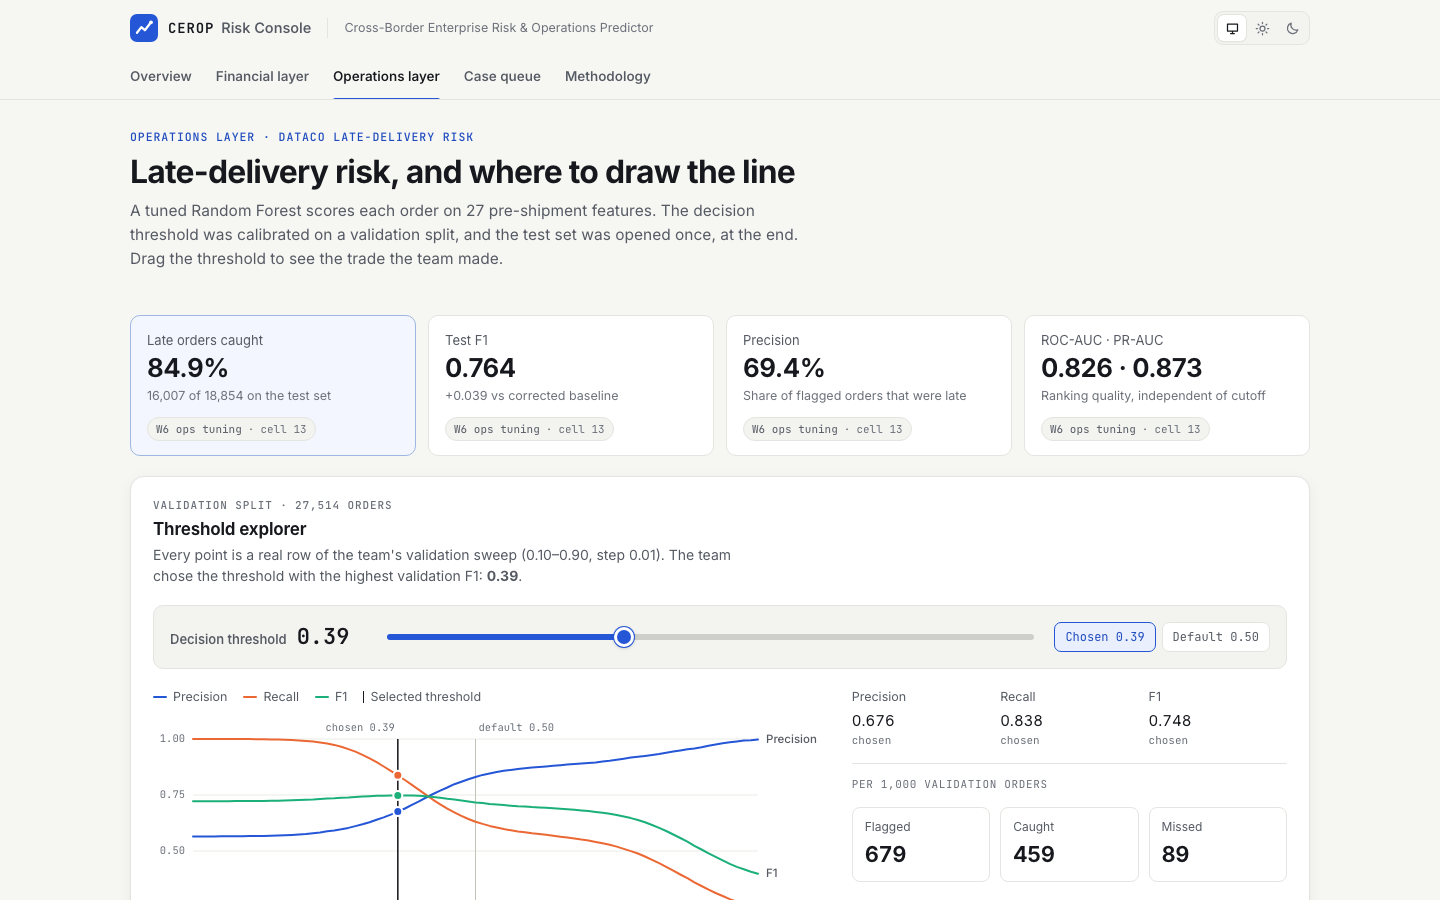
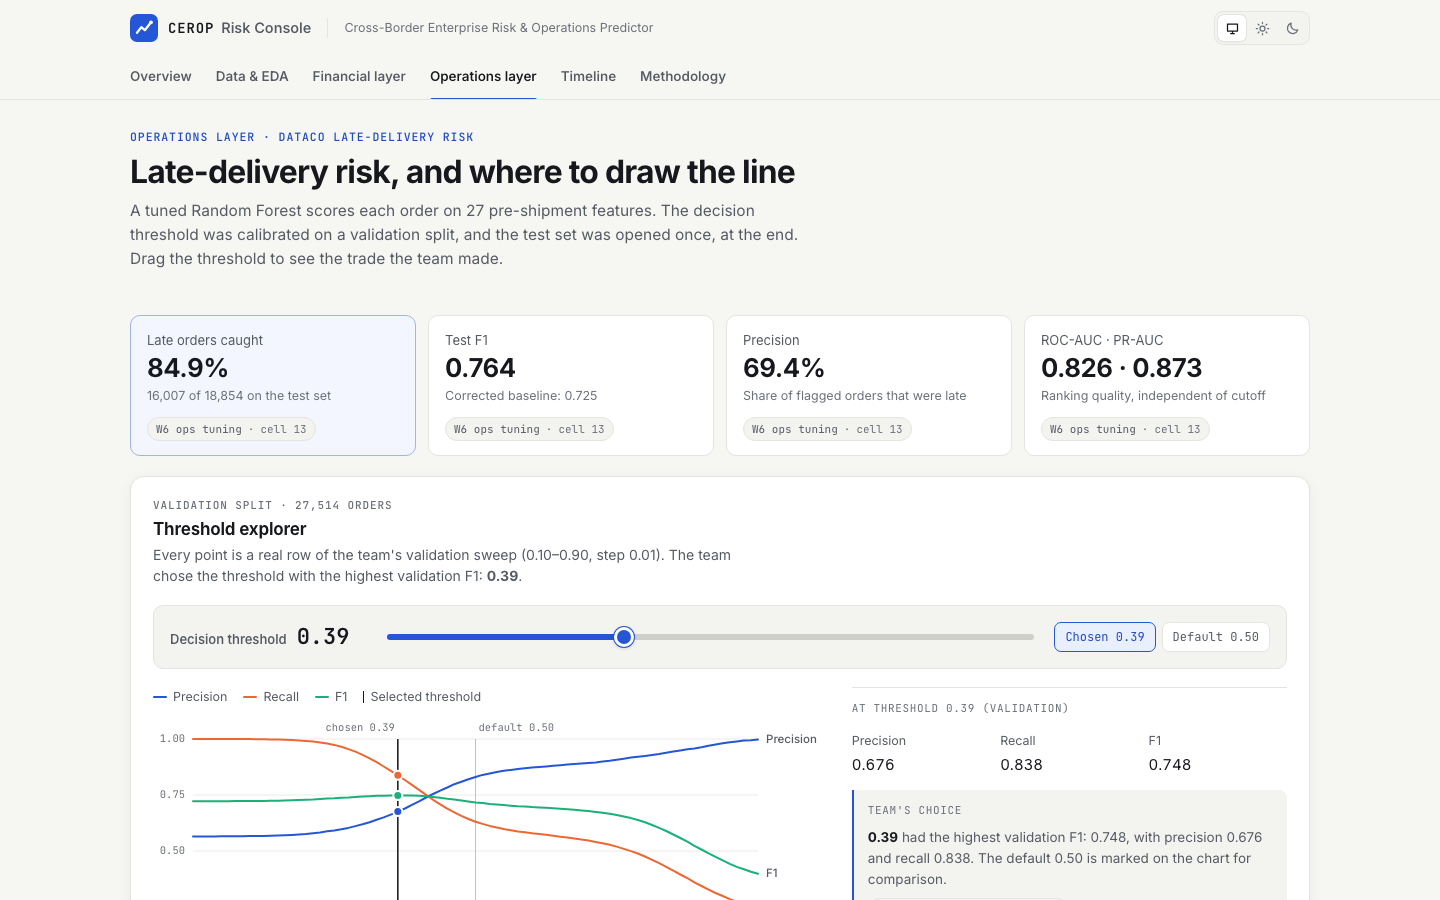
docs: README with documented results, provenance and refreshed screenshots

diff --git a/README.md b/README.md
@@ -1,66 +1,97 @@
 # CEROP Risk Console
 
-A console for CEROP (Cross-Border Enterprise Risk & Operations Predictor), a two-layer machine-learning model that asks two separate questions about a supplier: *is this company heading for bankruptcy?* and *will this order arrive late?*
+A console for CEROP (Cross-Border Enterprise Risk & Operations Predictor), a two-layer machine-learning project that asks two separate questions about a supplier: *is this company heading for bankruptcy?* and *will this order arrive late?*
 
-Every number in the console comes from the team's executed notebooks, a result file one of them saved, or the final slides. Each figure carries a small source chip that links to its row in a lineage table (file, cell or slide, and what was read there). Anything the record doesn't contain is left out and listed as missing.
+Every number in the console is a documented result from one of three places: the team's executed notebooks, one results file those notebooks saved, or the team's written report, "[AIT506] Group 4 - CEROP" (Weeks 2–6). Each figure carries a source chip that links to its row in a lineage table giving the file, cell or page, and what was read there.
 
 **Live:** https://divyagopalnadar.github.io/cerop-console/
 
-![CEROP Risk Console overview in light theme, showing the financial and operations layers side by side](docs/screenshot.png)
+![CEROP Risk Console overview, with the financial and operations layers side by side](docs/screenshot.png)
 
-## Features
+## Views
 
-- **Overview.** Headline results for both layers, the three reasons the layers stay separate, and the team's playbook for when one or both flag the same supplier.
-- **Financial layer.** XGBoost results on the held-out split, a confusion matrix rebuilt from the reported figures (with the derivation shown), why the team kept the baseline model, and the data prep that takes 95 ratios to 85 features.
-- **Operations layer.** A threshold explorer over the team's 81-step validation sweep: a slider plus a clickable chart show precision, recall and F1, and what the cutoff means per 1,000 orders (flagged, caught, missed). Below it: the sealed-test comparison of baseline, tuned, and tuned with a calibrated cutoff; a confusion-matrix viewer; the target-leakage fix; the tuning setup; and feature importances.
-- **Case queue.** A triage list (needs review / on watch / cleared) with search, layer and status filters, sorting, a dual-risk flag, and an expandable "why" for each case. **The cases are illustrative, not real model output**, and the page says so.
-- **Methodology.** The protocol (split, fit on train, tune, calibrate on validation, open the test set once), a lineage table for all 27 sources, the derived values and how they were computed, and what is not in the record.
-- Light and dark themes with a system default and no flash on load; hash routing so deep links work on GitHub Pages (e.g. `#/operations?t=0.45`, `#/lineage?src=ops-w6-test`); responsive down to 390px.
-- Accessibility: ARIA tabs with arrow/Home/End keys and a roving tabindex, labelled controls, native radio groups for segmented controls, charts backed by tables or text, visible focus, reduced-motion support, and status shown as icon plus label rather than colour alone.
+- **Overview.** The deployed result for each layer, the Week 6 deployment decision, why the two layers are never merged into one score, and the three datasets.
+- **Data & EDA.** Late-delivery rate by shipping mode, the shipping-delay distribution, the top correlates with bankruptcy, the 24 sentinel-valued financial ratios, the GSCPI assumption test (not supported), the DBSCAN anomaly component, and the cleaning and leakage decisions.
+- **Financial layer.** The Week 5 model comparison and the equal-recall result. For Week 6: the partition, search, parameters, the 11-row test table, three documented confusion matrices, why tuning did not transfer, and the bootstrap check.
+- **Operations layer.** A threshold explorer over the team's 81-step validation sweep, the sealed-test comparison of baseline, tuned, and tuned plus calibrated, a confusion-matrix viewer, the Order Status leakage fix, feature importances and the tuning setup.
+- **Timeline.** What each week, 1 through 7, decided.
+- **Methodology.** The shared protocol, a lineage table for all 55 sources, and the team with each member's charter responsibility.
 
-## Modelling summary
+Light and dark themes with a system default and no flash on load. Hash routing, so deep links work on GitHub Pages (for example `#/operations?t=0.45` or `#/lineage?src=report-w6-test`). Responsive down to 390px. ARIA tabs with arrow, Home and End keys, labelled controls, charts backed by lists or tables, visible focus and reduced-motion support.
 
-| | Financial layer | Operations layer |
-|---|---|---|
-| Question | Will this counterparty go bankrupt? | Will this order be delivered late? |
-| Data | Taiwanese Bankruptcy Prediction: 6,819 firms, 95 ratios, 3.23% bankrupt (≈ 1 : 30) | DataCo Smart Supply Chain + NY Fed GSCPI: 171,962 orders after removing a Nov–Dec 2017 artefact, 54.82% late |
-| Split | Stratified 80/20: 5,455 train / 1,364 test, 85 features after cleaning | Stratified 80/20: 137,569 train / 34,393 test; training further split 110,055 dev / 27,514 validation; 27 features |
-| Model | XGBoost, baseline configuration | Random Forest, tuned (RandomizedSearchCV, 25 × 3-fold, best CV F1 0.7051) |
-| Cutoff | Not recorded | 0.39, the validation-F1 maximum |
-| Test result | Recall 0.568 (25 of 44 bankrupt firms caught), F1 0.568, PR-AUC 0.490 | Recall 0.849, precision 0.694, F1 0.764, ROC-AUC 0.826, PR-AUC 0.873 |
+## Results
 
-What the operations numbers show:
+### Financial layer (Taiwanese Bankruptcy, 6,819 firms, 3.23% bankrupt)
 
-- **Tuning alone didn't help F1.** On the test set the corrected baseline scored F1 0.7251 at 0.50 and the tuned model 0.7214. Tuning did lift ROC-AUC from 0.8138 to 0.8258.
-- **Calibration did.** Moving the cutoff to 0.39, chosen on validation data, raised test recall from 0.629 to 0.849 and F1 to 0.764, at the cost of precision (0.846 → 0.694).
-- **Fixing the leak cost points, as it should.** The Week 5 feature set had 35 columns, including eight Order Status fields that encode the delivery outcome. Removing them dropped Random Forest's test F1 from 0.7388 to 0.7251 and its ROC-AUC from 0.855 to 0.814.
+Week 5, test set n = 1,364 with 44 bankrupt:
 
-For the financial layer, the final deck records the challenge ("Data Scarcity & Measurement Noise") and the decision ("Baseline Model Robustness"). With 44 bankrupt firms in the test split, each firm is worth 2.3 points of recall.
+| Model | Accuracy | Precision | Recall | F1 | ROC-AUC |
+|---|---|---|---|---|---|
+| Logistic Regression | 0.878 | 0.186 | 0.818 | 0.303 | 0.902 |
+| Random Forest | 0.966 | 0.478 | 0.500 | 0.489 | 0.943 |
+| XGBoost | 0.970 | 0.535 | 0.523 | 0.529 | 0.950 |
+
+With both models held to 81.8% recall (36 of 44 caught), XGBoost raised 82 false alarms against 140 for Logistic Regression: 41% fewer. XGBoost was shortlisted, with Random Forest as the backup.
+
+Week 6: RandomizedSearchCV, 40 draws × 5 folds, scored on average precision. The tuned model beat the Week 5 configuration in cross-validation (PR-AUC 0.4257 vs 0.3895) but not on the sealed test set:
+
+| Configuration | Threshold | Precision | Recall | F1 | PR-AUC | Caught |
+|---|---|---|---|---|---|---|
+| XGBoost, Week 5 config (refit) · **deployed** | 0.500 | 0.568 | 0.568 | 0.568 | 0.490 | 25/44 |
+| XGBoost, tuned | 0.500 | 0.489 | 0.523 | 0.505 | 0.425 | 23/44 |
+| XGBoost, tuned @ calibrated | 0.335 | 0.382 | 0.591 | 0.464 | 0.425 | 26/44 |
+
+The report explains why tuning did not transfer:
+
+- **Noise.** The ranking signal (0.0498 PR-AUC, best to worst) was smaller than the fold noise (SD 0.0649), a signal-to-noise ratio of 0.77, with about 28 positives per fold.
+- **Grid.** The grid capped `scale_pos_weight` at 20 while the class ratio was 30.0.
+- **Bootstrap.** A paired bootstrap with 2,000 resamples puts ΔPR-AUC at −0.0652, with a 95% CI of [−0.1351, +0.0249], which spans zero.
+
+The decision was to keep the Week 5 configuration and invest in more labelled bankruptcies rather than more search.
+
+### Operations layer (DataCo, 171,962 orders after artefact removal, 54.8% late)
+
+After removing eight leaking Order Status columns (35 → 27 features), a tuned Random Forest was calibrated on the validation split. The threshold 0.39 gave the best validation F1 (0.748). Results on the sealed test set (34,393 orders):
+
+| Model | Threshold | Precision | Recall | F1 | ROC-AUC | PR-AUC |
+|---|---|---|---|---|---|---|
+| Corrected baseline RF | 0.50 | 0.8261 | 0.6461 | 0.7251 | 0.8138 | 0.8620 |
+| Tuned RF | 0.50 | 0.8456 | 0.6290 | 0.7214 | 0.8258 | 0.8730 |
+| Tuned RF · **deployed** | 0.39 | 0.6944 | 0.8490 | 0.7639 | 0.8258 | 0.8730 |
+
+Calibration cut missed late orders from 6,994 to 2,847, so about 4,100 more at-risk shipments are flagged. False alarms rose from 2,166 to 7,045.
+
+The two layers are presented side by side and never merged into a single score.
 
 ## Data provenance
 
-`scripts/extract_data.py` parses executed cell outputs, one saved result CSV and slide XML into `src/data/*.json`. Each record gets a `source` id that resolves in `src/data/sources.json`. The notebooks and decks are not in this repository.
+- `scripts/extract_data.py` parses executed cell output from the notebooks, plus the threshold sweep that `AIT506_Week6_Operations_Model_Tuning.ipynb` saved to `week6_operations_threshold_results.csv`.
+- `scripts/report_facts.py` holds the report's tables, each with the page it came from. On every extraction, 166 values are re-checked against the report's PDF text.
+- Two report items exist only as figures: the delay distribution (Week 3, Figure 7) and the Week 6 confusion matrices (Figure 5). Those values were read from the figure images and cross-checked against the surrounding text ("33.6% at +1 day", "false alarms rising from 24 to 42").
+- The notebooks and the report are not in this repository.
 
-| Source file | Used for |
+| Source | Used for |
 |---|---|
-| `AIT506_Week6_Operations_Model_Tuning.ipynb` (cells 0, 4, 6, 8, 10, 13) | Corrected data shapes, validation split, search, chosen threshold, final test results |
-| `week6_operations_results/week6_operations_threshold_results.csv` (saved by cell 19 of the notebook above) | The full 81-row validation sweep; checked against the printed top five |
-| `AIT506_Week5_Operational_Model_Selection.ipynb` (cells 3, 5, 11, 16, 18, 20, 24) | Class balance, Week 5 shortlist, CV, RBF check, feature importances |
-| `Week4_CEROP_Pipeline_Integration_FIXED_v3.ipynb` (cells 3, 8, 10, 14, 21) | Financial split and feature count, DataCo row counts, GSCPI note |
-| `WEEK_4_—_Financial_Layer_Cleaning_(Taiwan_Bankruptcy_Dataset).ipynb` (cells 0, 2, 5) | Dataset shape, outlier tiers |
-| `CEROP_Unified_Risk_Intelligence.pptx` (slides 1, 3, 5, 6, 7) | Financial test results, strategy, protocol, playbook, team |
-| `CEROP_PCA_Class_Activity.pptx` (slide 1), `CEROP_Class_Activity_5_Slides_Final.pptx` (slide 2) | 3.23% positive class; why the datasets can't be merged |
+| `AIT506_Week6_Operations_Model_Tuning.ipynb` and its saved sweep CSV | Operations Week 6: splits, search, threshold sweep, final test results |
+| `AIT506_Week5_Operational_Model_Selection.ipynb` | Operations Week 5: class balance, model comparison, CV, feature importances |
+| `Week4_CEROP_Pipeline_Integration_FIXED_v3.ipynb`, `WEEK_4_—_Financial_Layer_Cleaning_(Taiwan_Bankruptcy_Dataset).ipynb` | Dataset shapes, cleaning tiers, split sizes, GSCPI join |
+| `[AIT506] Group 4 - CEROP.pdf` (Weeks 2–6) | EDA, GSCPI test, DBSCAN, financial Weeks 5–6, deployment decision, team and roles |
 
-**Derived values** (computed, not read): the validation positive count (15,083, from the 1/N steps in recall), the per-1,000 outcome counts, and the financial confusion matrix (TN 1,301, FP 19, FN 19, TP 25), which is the only integer solution consistent with 25 of 44 caught, F1 0.568 and 1,364 test firms. The tests re-derive all three.
-
-**Not in the record:** the financial model-selection notebook (XGBoost against Logistic Regression and others), financial tuned-versus-untuned scores, metrics at equal recall, the financial cutoff, per-case predictions, and importances for the corrected 27-feature operations model. None of these is shown.
+The report and the notebooks agree on every operations figure they share, to the printed precision. The only inconsistency found is inside the report: Week 6 Figure 5 labels the calibrated financial threshold t = 0.334, while Table 3 gives 0.335. The console uses Table 3.
 
 ## Tech stack
 
 - Vite 8, React 19, TypeScript 6 in strict mode (with `noUncheckedIndexedAccess` and `exactOptionalPropertyTypes`)
-- CSS Modules on a small set of design tokens; no UI kit and no chart library. The charts are hand-built SVG and HTML, and the palette was checked with a CVD and contrast validator for both themes.
-- Vitest and Testing Library: 47 tests covering data integrity (matrices sum to the test sets, precision/recall/F1 recomputed from counts, sweep ordering and consistency, provenance coverage) and interactions (tabs and keyboard, threshold slider and deep links, queue filtering, theme)
-- oxlint with React, jsx-a11y and Vitest rules
+- CSS Modules on a small set of design tokens. No UI kit or chart library: the charts are hand-built SVG and HTML, with palettes checked for colour-vision-deficiency separation and contrast in both themes.
+- Vitest and Testing Library, 58 tests:
+  - confusion matrices sum to their test sets;
+  - precision, recall, F1 and accuracy recomputed from the matrices match the reported values;
+  - caught/44 equals recall for every financial row;
+  - the report and notebooks agree;
+  - the sweep is ordered and consistent;
+  - provenance covers every source;
+  - interactions: tabs, the slider, deep links, the matrix picker and theme.
+- oxlint with the React, jsx-a11y and Vitest plugins
 - A GitHub Actions workflow that runs lint, typecheck, tests and build on Node 22, then deploys to GitHub Pages from `main`
 
 ## Getting started
@@ -69,12 +100,11 @@ For the financial layer, the final deck records the challenge ("Data Scarcity & 
 npm ci
 npm run dev          # http://localhost:5173/cerop-console/
 npm run check        # lint + typecheck + tests + build
-npm run preview      # serve the production build
-npm run extract -- ~/Downloads   # regenerate src/data from the team's files
+npm run extract -- ~/Downloads   # regenerate src/data (pypdf enables the report check)
 ```
 
 ## Credits
 
 Team project · AIT 506 Machine Learning, Westcliff University · Console designed and built by Divya Gopal.
 
-CEROP was built by Group 4: Ankit Kumar, Aswin Shriram Thiagarajan, Arthunya Kanoklertwongse and Divya Gopal. The modelling is the team's work. This console (its design, data extraction and code) is Divya's.
+CEROP was built by Group 4 (Ankit Kumar, Arthunya Kanoklertwongse, Aswin Shriram Thiagarajan and Divya Gopal) for Prof. Oueichek Ibba, Summer 2026. The modelling is the team's work. The team charter assigns Divya the executive dashboard: "translating model output into a decision-support interface". This console is that work.
